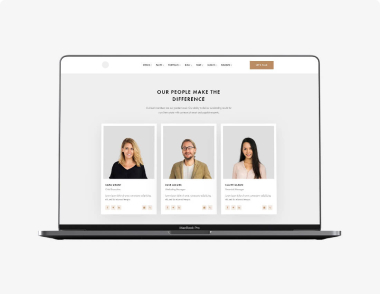
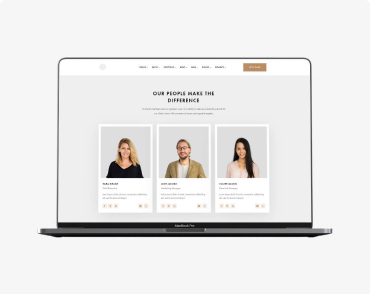
Fixed size and position

diff --git a/index.html b/index.html
@@ -103,19 +103,19 @@
         <ul>
           <li>
             <a href="#"
-              ><img src="./images/desktopapp.jpg" alt="десктоп" width="380"
+              ><img src="./images/desktopapp.jpg" alt="десктоп" width="370"
             /></a>
             <h3 class="title">десктопные приложения</h3>
           </li>
           <li>
             <a href="#"
-              ><img src="./images/mobileapp.jpg" alt="телефон" width="380"
+              ><img src="./images/mobileapp.jpg" alt="телефон" width="370"
             /></a>
             <h3 class="title">мобильные приложения</h3>
           </li>
           <li>
             <a href="#"
-              ><img src="./images/designer.jpg" alt="дизайн" width="380"
+              ><img src="./images/designer.jpg" alt="дизайн" width="370"
             /></a>
             <h3 class="title">дизайнерские решения</h3>
           </li>
@@ -130,7 +130,7 @@
 
         <ul class="team-list">
           <li>
-            <img src="./images/johnsmit.jpg" alt="фото джон смит" width="278" />
+            <img src="./images/johnsmit.jpg" alt="фото джон смит" width="270" />
             <h3 class="title">John Smith</h3>
             <p class="cpecialazed">Product Designer</p>
 
@@ -161,7 +161,7 @@
             <img
               src="./images/martastewart.jpg"
               alt="фото марта стюарт"
-              width="278"
+              width="270"
             />
             <h3 class="title">Marta Stewart</h3>
             <p class="cpecialazed">Frontend Developer</p>
@@ -193,7 +193,7 @@
             <img
               src="./images/robertjakis.jpg"
               alt="фото роберт джекис"
-              width="278"
+              width="270"
             />
             <h3 class="title">Robert Jakis</h3>
             <p class="cpecialazed">Marketing</p>
@@ -225,7 +225,7 @@
             <img
               src="./images/martindoe.jpg"
               alt="фото мартин до"
-              width="278"
+              width="270"
             />
             <h3 class="title">Martin Doe</h3>
             <p class="cpecialazed">UI Designer</p>

diff --git a/css/common.css b/css/common.css
@@ -27,10 +27,10 @@ body {
   text-align: center;
   margin-left: auto;
   margin-right: auto;
-  width: 1230px;
+  width: 1200px;
   padding-left: 15px;
   padding-right: 15px;
-  /* outline: 2px solid tomato; */
+  outline: 2px solid tomato;
 }
 
 ul {
@@ -97,7 +97,7 @@ h6 {
 }
 
 .navigation .list {
-  margin-left: 86px;
+  margin-left: 85px;
   padding: 32px 0px;
 }
 
@@ -173,7 +173,7 @@ h6 {
 
 .logo-adres {
   text-align: left;
-  margin-right: 179px;
+  margin-right: 171px;
 }
 
 .adress-footer > * {
@@ -218,7 +218,7 @@ h6 {
   /* display: flex; */
   /* flex-direction: column; */
   margin-top: 8px;
-  margin-right: 102px;
+  margin-right: 94px;
 }
 
 .join li {

diff --git a/css/master.css b/css/master.css
@@ -33,6 +33,7 @@
   border-radius: 4px;
   min-width: 200px;
   padding: 10px 32px;
+  margin-top: 38px;
 
   background-color: var(--accent-color);
   font-weight: 700;
@@ -60,6 +61,7 @@
   display: flex;
   text-align: left;
   padding-top: 94px;
+  padding-bottom: 94px;
 }
 
 .advantages li + li {
@@ -67,7 +69,7 @@
 }
 
 .advantages li {
-  width: 278px;
+  width: 270px;
 }
 
 .advantages .title {
@@ -203,7 +205,7 @@
 }
 
 .clients li {
-  width: 175px;
+  width: 170px;
 }
 
 .clients li + li {

diff --git a/css/potfolio.css b/css/potfolio.css
@@ -9,12 +9,13 @@
 
 .filter .container {
   padding-top: 94px;
+  padding-bottom: 94px;
   text-align: left;
 }
 
 .button-list {
   display: flex;
-  margin-left: 295px;
+  justify-content: center;
   margin-bottom: 50px;
 }
 
@@ -79,7 +80,7 @@
 }
 
 .projects .text {
-  width: 380px;
+  width: 370px;
   height: 168px;
 
   color: var(--primary-white-color);

diff --git a/portfolio.html b/portfolio.html
@@ -184,7 +184,6 @@
         </ul>
       </div>
     </section>
-    >
 
     <!-- Секция Футер -->
     <footer class="footer">
